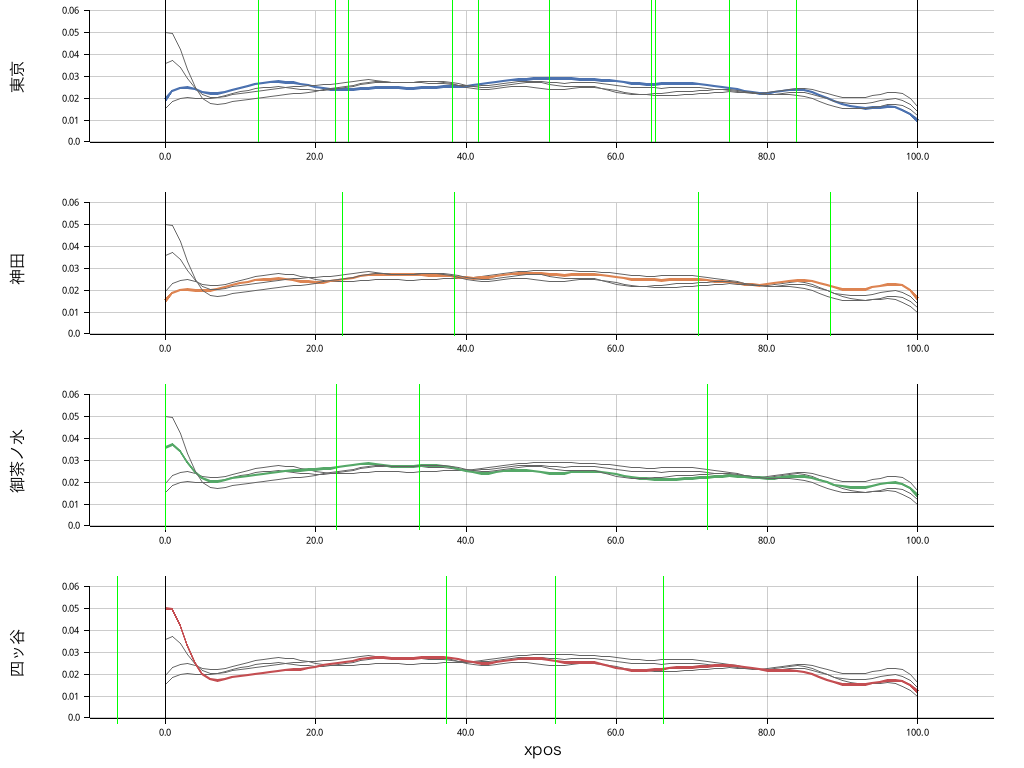
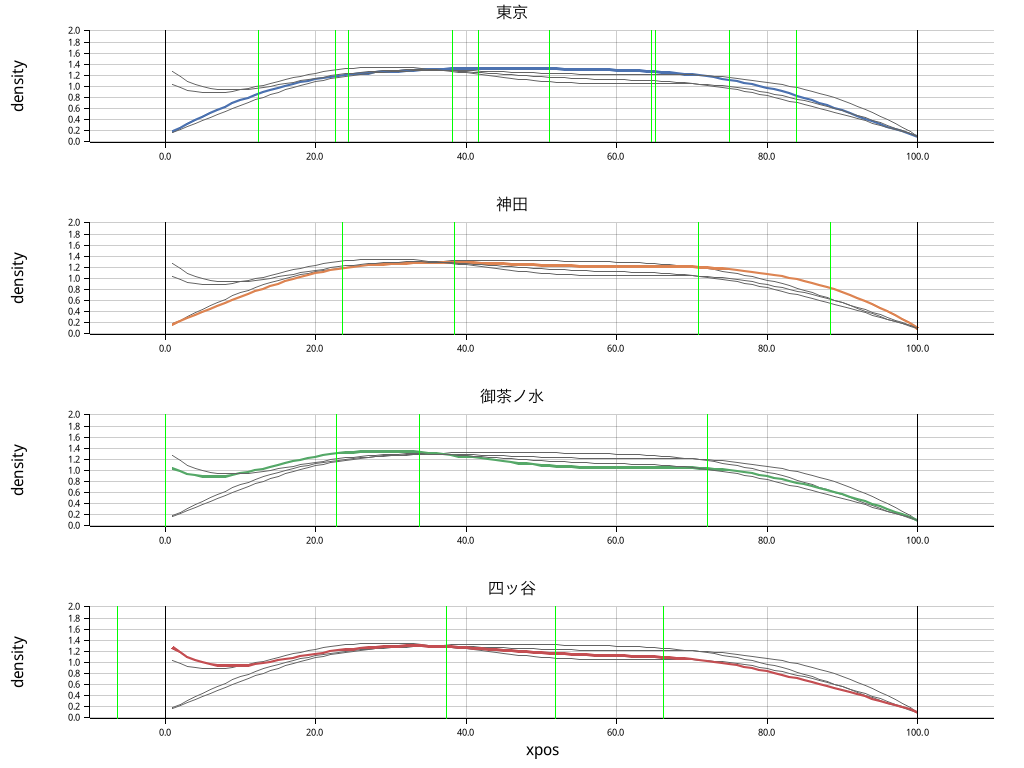
Update readme and examples

diff --git a/README.md b/README.md
@@ -2,7 +2,7 @@
 
 ![kanda](examples/kanda.png)
 
-Simulates the distribution of passengers inside a train along its journey. Higher frequency means higher probability of more people in that section of the train carriage.
+Models the distribution of passengers inside a train along its journey. Higher density means higher probability of more people in that section of the train carriage. This is the probability density function of a mixture distribution.
 
 It assumes that the biggest/only factor in the spatial distribution of passengers is the location of "stairs" (stairs and escalators) on station platforms.
 
@@ -10,7 +10,7 @@ It assumes that the biggest/only factor in the spatial distribution of passenger
 
 Two random beta distributions are generated for every "stair" location, one with a larger and the other a smaller variance. A smaller random uniform distribution is also generated. The three form a mixture distribution and is weighted then summed. The summed pdf for every stair is summed for every station, giving a pdf for boarders at every station. Some passengers in the train will alight whilst some board, so the final distribution after each station is another mixture distribution consisting of the current passengers in the train weighted by the proportion of remaining passengers, plus the boarders.
 
-Origin-destination data is used to model passengers alighting the train cumulatively.
+![out](examples/out.png)
 
 The probability density function *m* of passenger spatial distribution for every station *i* is therefore:
 
@@ -36,11 +36,11 @@ $$S_j=(B_c\times p_o) + (B_f\times p_f) + (U\times p_u)$$
 - $p_o + p_f + p_u = 1$ and all three are >= 0
 - $p_a + p_{1 - a} = 1$ and both are >= 0
 
-The beta distribution is used because it is more appropriate to model proportions (which is bounded between 0-1 exclusive). For values exactly at 0 and 1, it turns it into 0.01 and 0.99 for the beta distribution. The normal distribution would cause edge effects on the boundaries because values outside the boundary was clamped. The alternative was to ignore those values, but that would decrease the number of passengers generated.
+Origin-destination data is used to model passengers alighting the train cumulatively.
 
-![out](examples/out.png)
+The beta distribution is used because it is more appropriate to model proportions (which is bounded between 0-1 exclusive). For values exactly at 0 and 1, it turns it into 0.01 and 0.99 for the beta distribution. The normal distribution would cause edge effects on the boundaries because values outside the boundary was clamped. The alternative was to ignore those values, but that would cause the integral of the "pdf" to be less than 1.
 
-The green lines represents the x-position of the "stairs" for every station. The blue line is the KDE of the spatial distribution of passengers along the 1D train. Observe that there is a slight increase in density around the "stairs".
+The green lines represents the x-position of the "stairs" for every station. The blue line is the probability density function of the spatial distribution of passengers along the 1D train.
 
 As the train moves from Tokyo to Kanda, some passengers alight the train and some board it. Thus the cumulative distribution of the train after Kanda is a mixture of the Tokyo and Kanda distributions. This is why the KDE for Kanda still resembles Tokyo.
 
@@ -50,16 +50,10 @@ Ochanomizu and Yotsuya has "stairs" on the far end of the platform, with the lat
 
 This chart shows the same data but in the same plot for easier inter-station comparison. The density on the left (front of train) after Ochanomizu and Yotsuya is immediately observable.
 
-![smoothed](examples/smoothed.png)
-
-A naive way of modeling passenger dispersion to increase personal space is to increase the bandwidth for the kernel density estimate. This chart increases the bandwidth multiplier, smoothing out small differences, emphasizing focus on broader, larger scale differences. For example, the right-side stairs in Kanda increased passenger density on the right, but then decreases after Ochanomizu and Yotsuya as their stairs are on the left and center of the platform.
-
-The proper way is to use [crowd simulation](https://en.wikipedia.org/wiki/Crowd_simulation), but the depth is out of scope for this open source repo. Hopefully it will inspire someone else to dig deeper!
-
 ## Potential extensions
 
 - Proper OD data (the current OD data is probably commuter tickets only)
-- Easily adjustable variables (eg, mean and stdev of beta distributions)
+- Easily adjustable variables
 - [Crowd simulation](https://en.wikipedia.org/wiki/Crowd_simulation) to model passengers dispersing throughout the train, as passengers do not mindlessly cluster together when there is space along the train
 - Consider variables such as shelter (for rainy weather)
 - Consider that some passengers will board at a location convenient for their destination station
